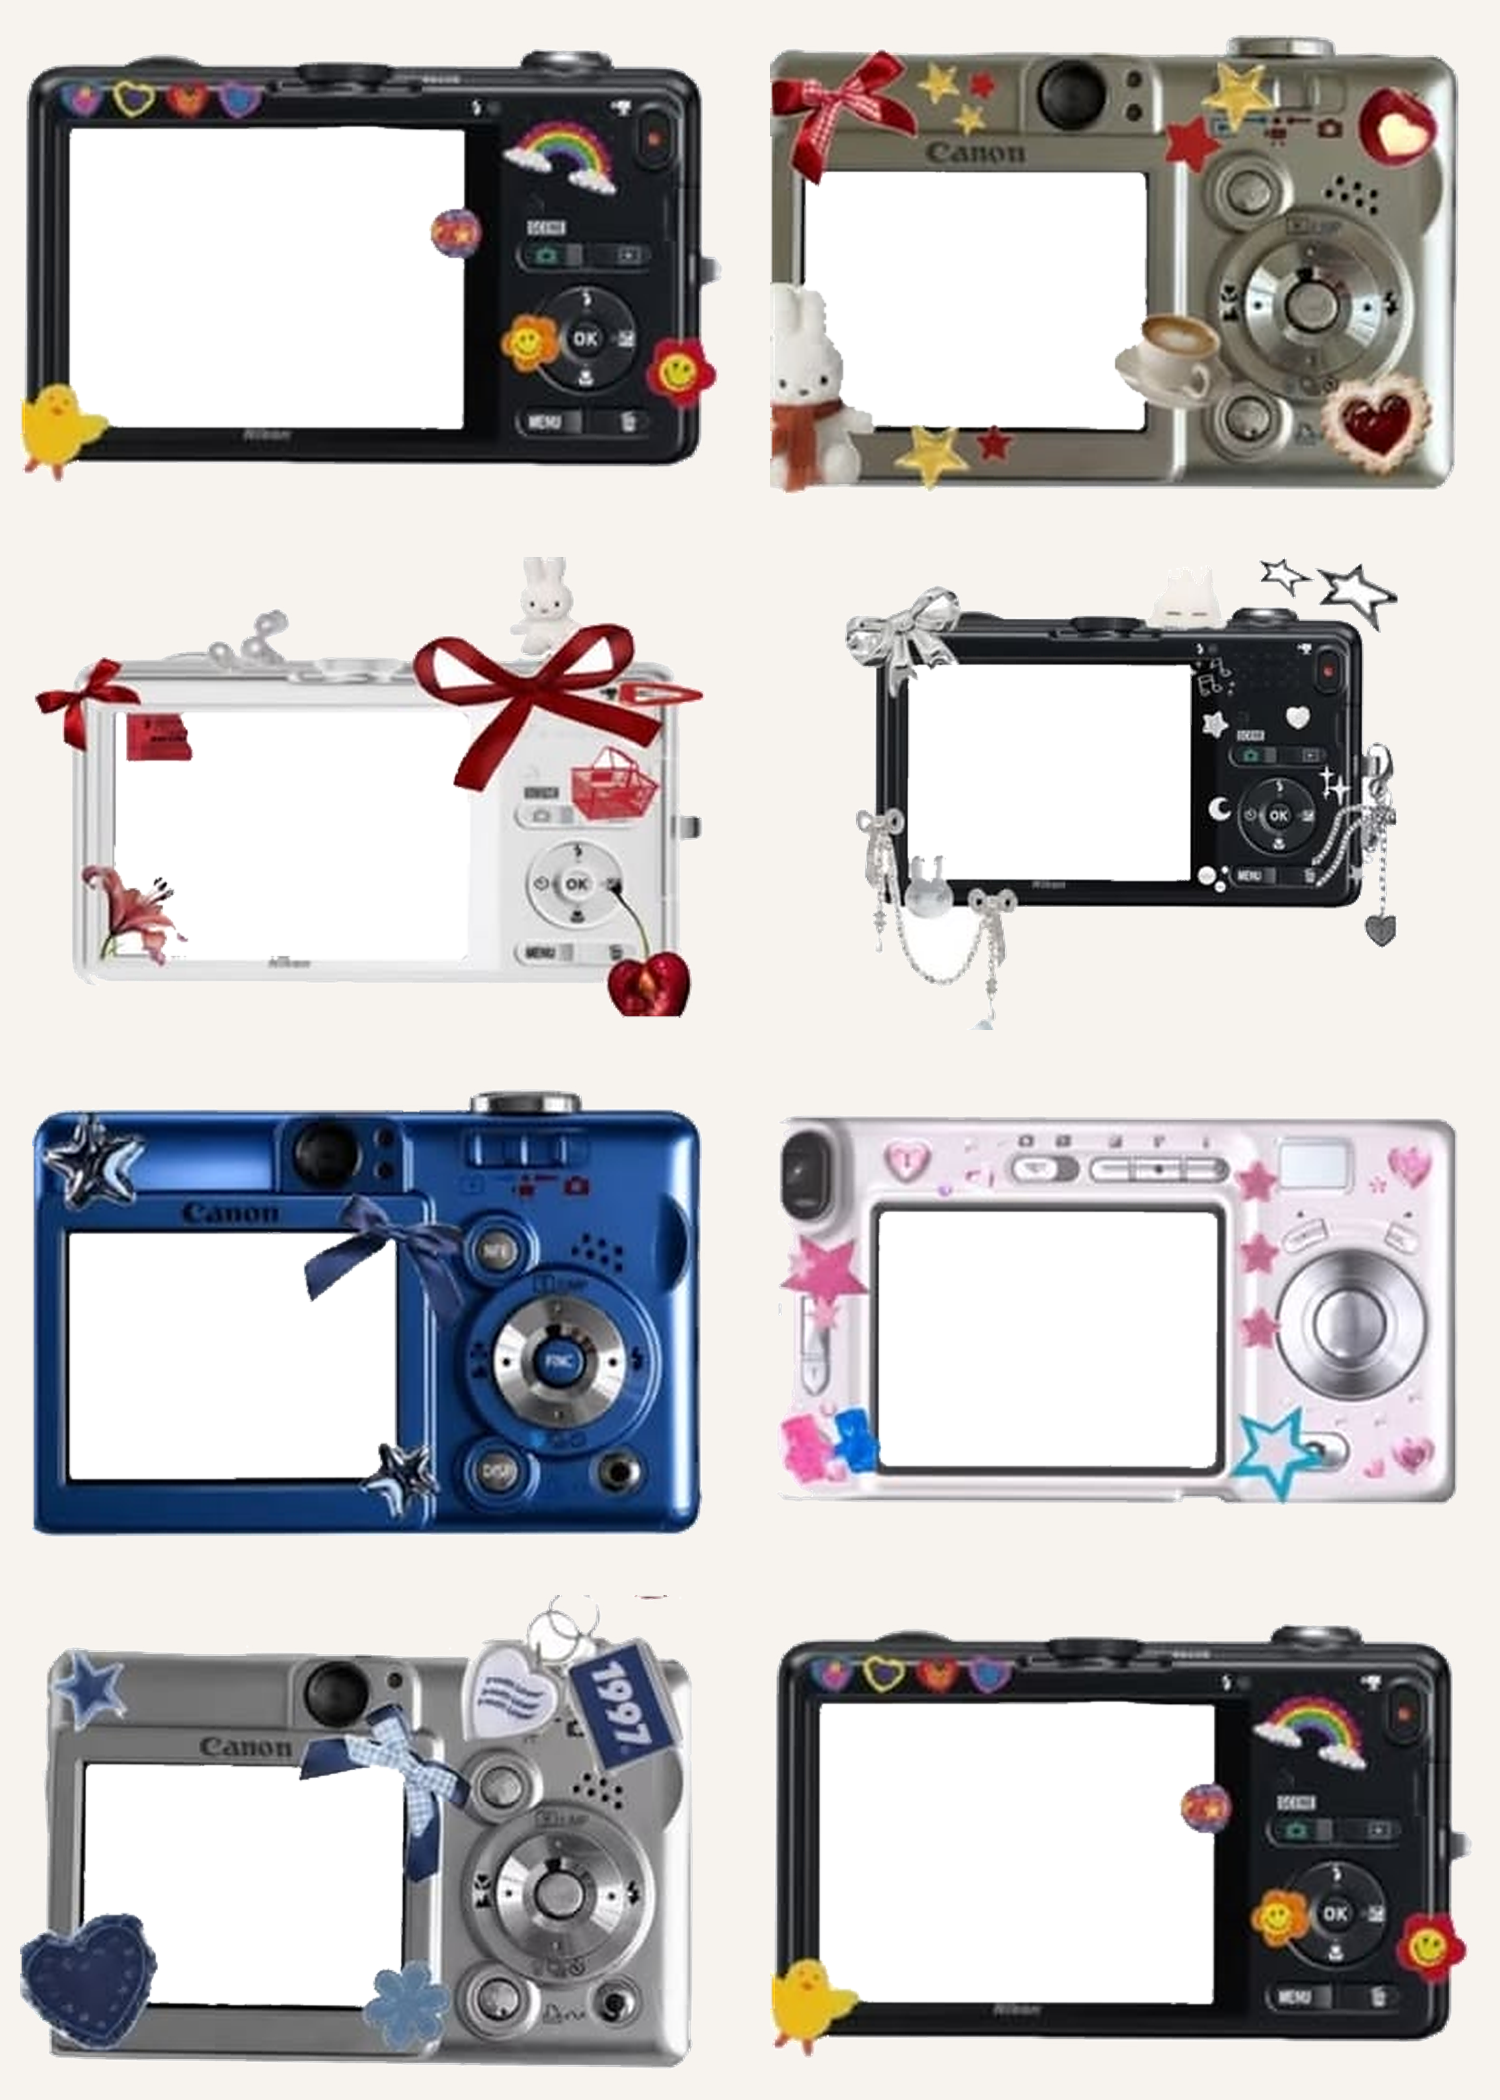
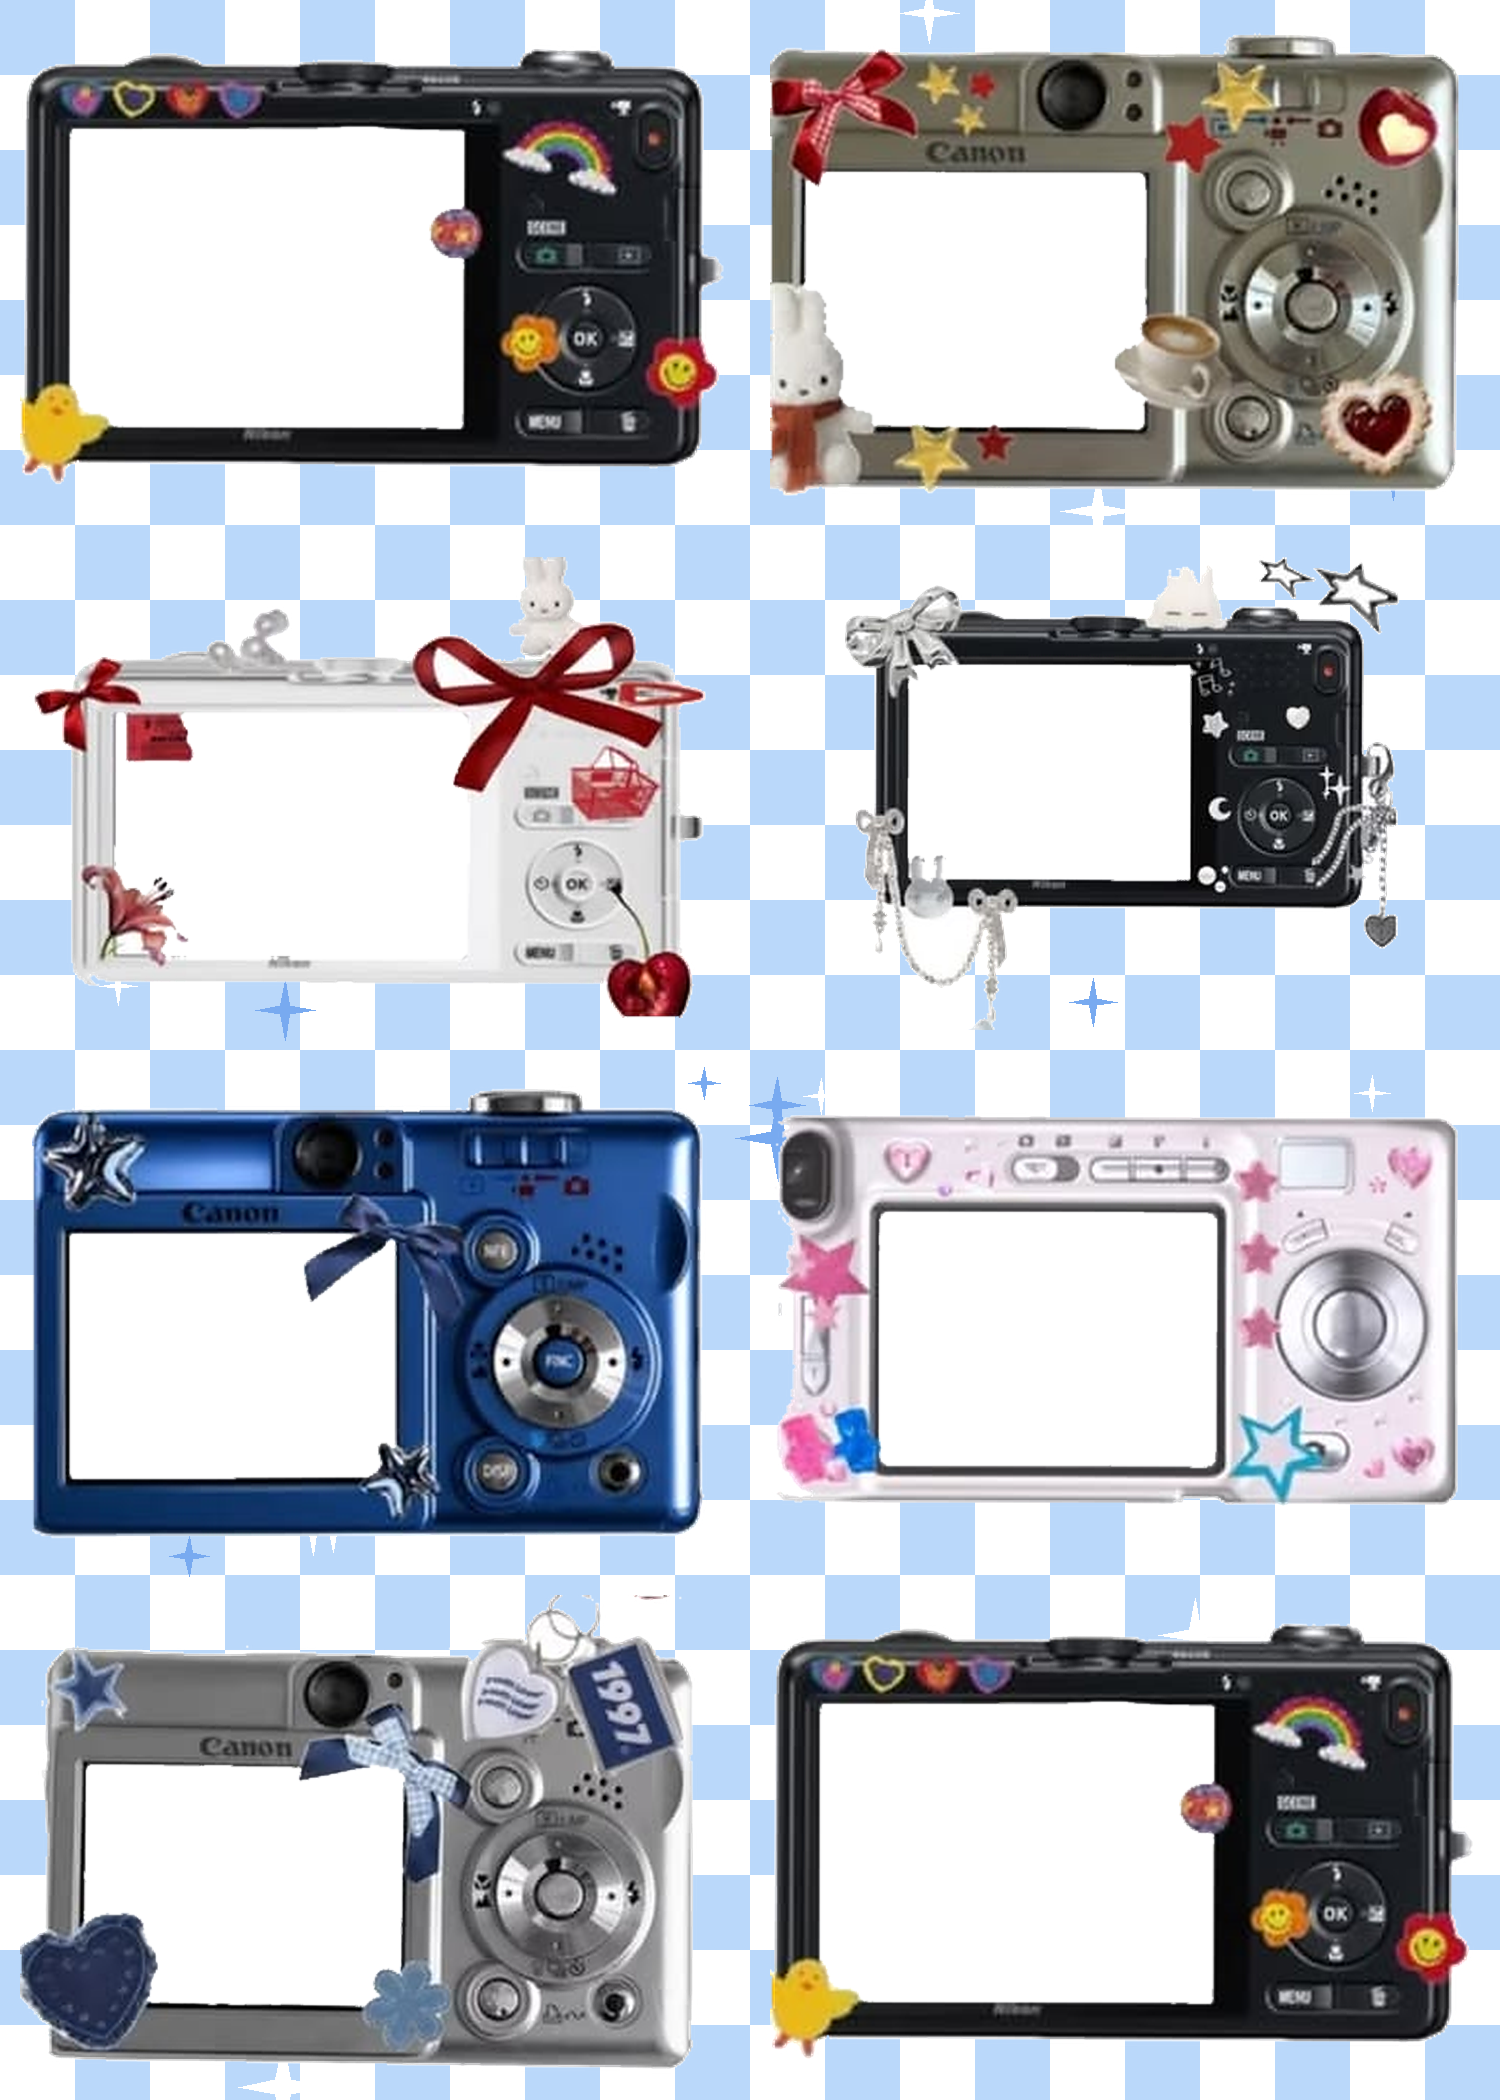
카메라 8컷 바탕을 Y2K 블루 체커로 (v24)

diff --git a/app.js b/app.js
@@ -60,10 +60,10 @@ function defaultConfig(){
         texts: [],
         cut: { on:true, x:750, color:"#6A6A6A" }   // 가운데 절취선, 회색 (사용자 요청)
       },
-      /* 카메라 8컷 — 사용자가 준 카메라 이미지 7종으로 만든 프레임 그림(frames/camera8.png, 1500×2100, 바탕 #F7F3EE, 검정 카메라는 두 번).
+      /* 카메라 8컷 — 사용자가 준 카메라 이미지 7종으로 만든 프레임 그림(frames/camera8.png, 1500×2100, 바탕은 Y2K 블루 체커(사용자 요청), 검정 카메라는 두 번).
          칸은 카메라 화면 구멍 자리(둘레 연한 띠를 6px 더 뚫고 바탕도 4px 더 비움, 칸은 그보다 사방 3px 크게, 프레임 그림이 위에 덮임). 10장 중 서로 다른 8장을 고릅니다(사용자 요청). */
       {
-        id: "cam8", name: "카메라 8컷", enabled: true, instax: false, style: "camera", bg: "#F7F3EE",
+        id: "cam8", name: "카메라 8컷", enabled: true, instax: false, style: "camera", bg: "#BAD8FA",
         canvas: { w:1500, h:2100 },
         frame: null, frameSrc: "frames/camera8.png",
         slots: [
@@ -253,7 +253,7 @@ function migrate(cfg){
   // 카메라 8컷 칸은 앱 폴더 프레임 그림(frameSrc)과 짝이라, 관리자가 프레임 그림을 따로 올리지 않았으면 늘 기본값으로 맞춥니다.
   defaultConfig().layouts.forEach(function(d){
     if (!d.frameSrc) return;
-    (cfg.layouts || []).forEach(function(l){ if (l.id === d.id && !l.frame){ l.slots = d.slots; l.frameSrc = d.frameSrc; } });
+    (cfg.layouts || []).forEach(function(l){ if (l.id === d.id && !l.frame){ l.slots = d.slots; l.frameSrc = d.frameSrc; l.bg = d.bg; } });
   });
   if (cfg.version >= 8){ cfg.version = 23; return cfg; }
 

diff --git a/sw.js b/sw.js
@@ -1,6 +1,6 @@
 /* 셀프 042 (아이패드 부스) — 오프라인 캐시.
    앱 내용을 고치고 아이패드에 반영되지 않으면 아래 CACHE 번호를 올리세요. */
-const CACHE = "self042-v23";
+const CACHE = "self042-v24";
 const SHELL = ["./", "./index.html", "./app.js", "./camera-check.html", "./manifest.json", "./icon-180.png", "./icon-512.png"];
 
 self.addEventListener("install", (e) => {
